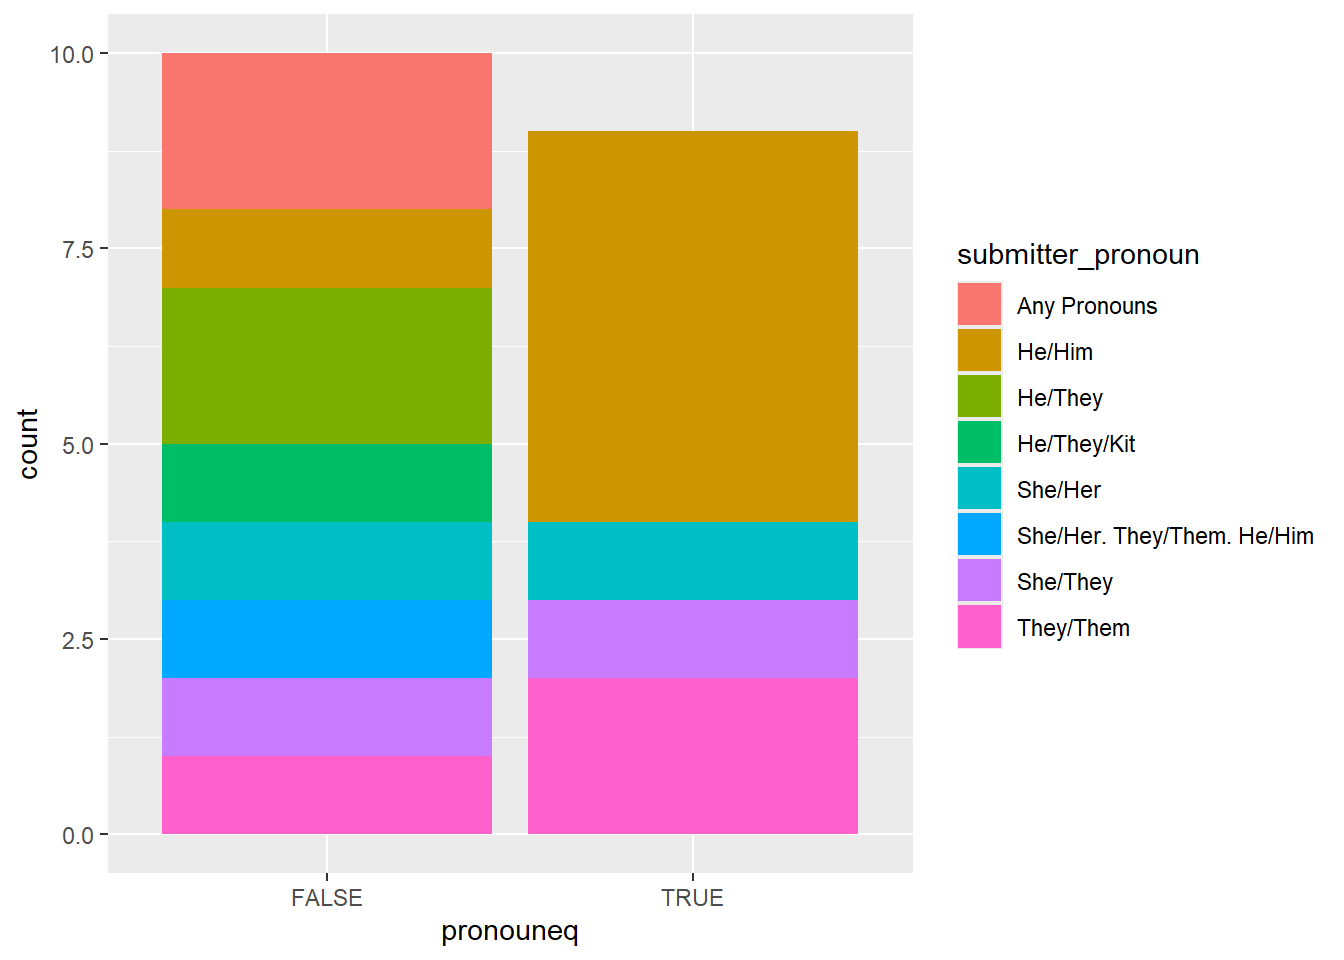
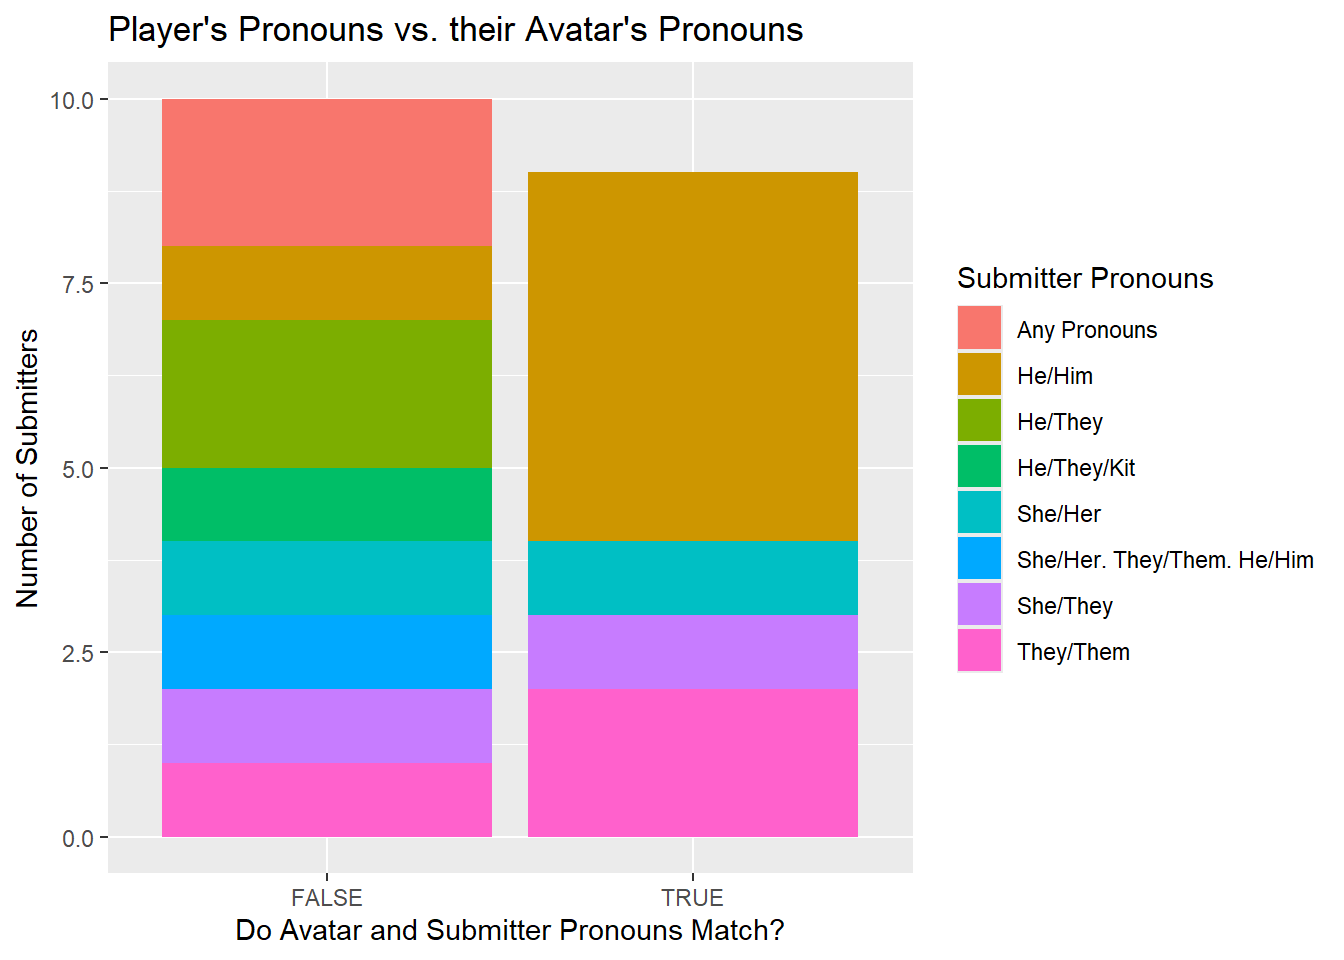
style sheet and home page modifications w colors and headers

diff --git a/styles.css b/styles.css
@@ -2,12 +2,6 @@
 
 // Colors
 
-$text-color:      #1a1a2e;   /* deep navy */
-$bg-color:        #c9f0ff;   /* soft trans blue background */
-$neutral:         #fdeef4;   /* soft trans pink for cards/sections */
-$accent-light:    #d44d7a;   /* deeper pink for links */
-$accent-dark:     #1a6fa8;   /* deeper blue for hover */
-
 $link-color:        #d44d7a 
 $link-hover-color:  #1a6fa8 
 
